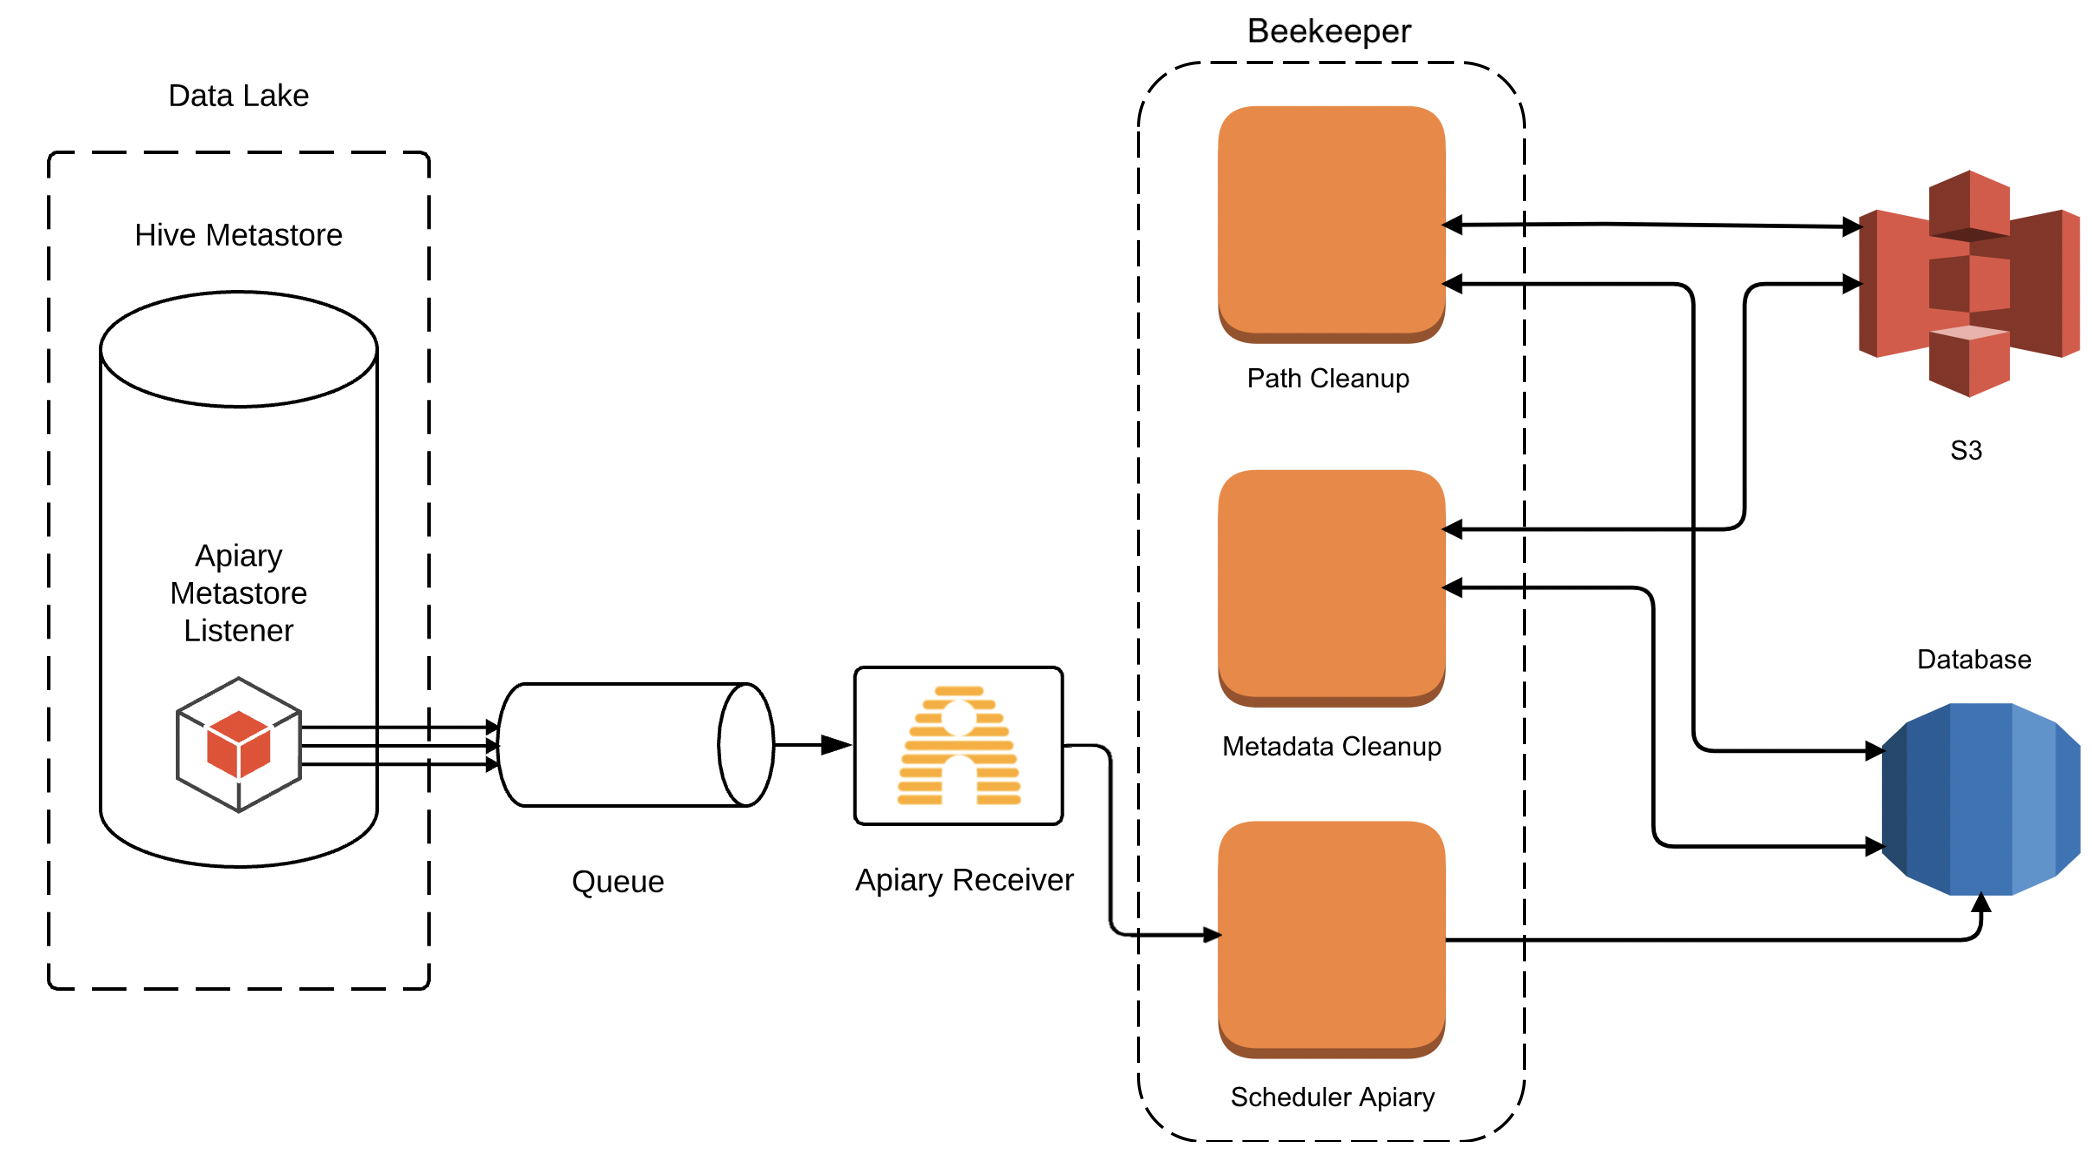
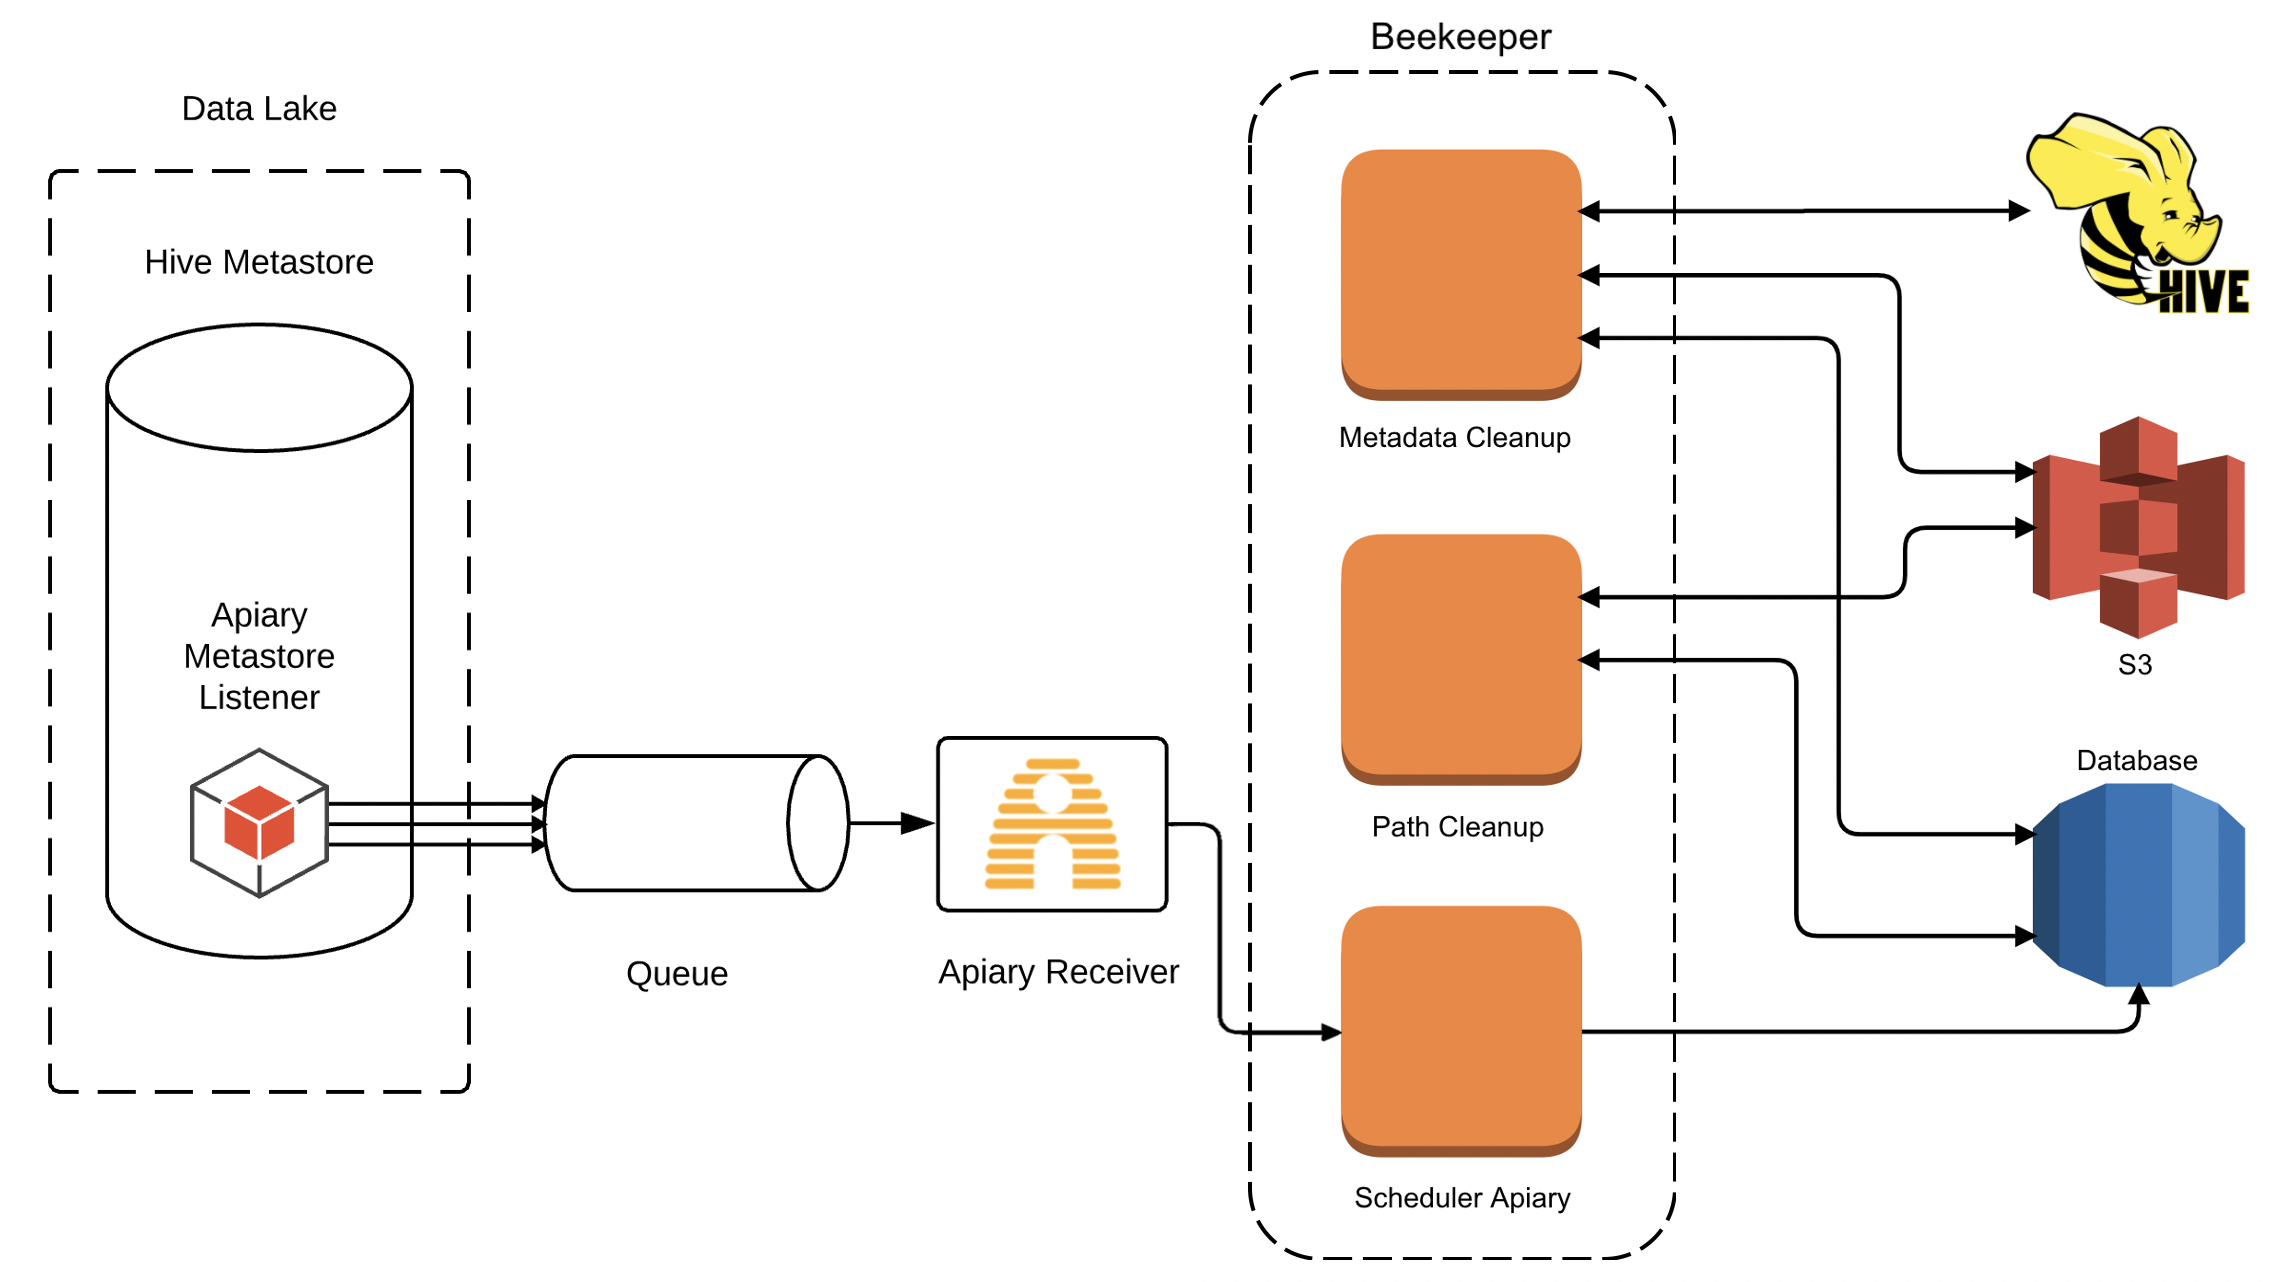
Addressing PR comments

diff --git a/README.md b/README.md
@@ -16,16 +16,25 @@ Docker images can be found in Expedia Group's [dockerhub](https://hub.docker.com
 
 # How does it work?
 
-Beekeeper makes use of [Apiary](https://github.com/ExpediaGroup/apiary) - an open source federated cloud data lake - to detect changes in the Hive MetaStore. One of Apiary’s components, the [Apiary MetaStore Listener](https://github.com/ExpediaGroup/apiary-extensions/tree/master/apiary-metastore-events/apiary-metastore-listener), captures Hive events and publishes these as messages to an SNS topic. Beekeeper uses these messages to detect changes to the Hive MetaStore, and perform appropriate deletions.
+Beekeeper makes use of [Apiary](https://github.com/ExpediaGroup/apiary) - an open source federated cloud data lake - to detect changes in the Hive MetaStore. One of Apiary’s components, the [Apiary MetaStore Listener](https://github.com/ExpediaGroup/apiary-extensions/tree/master/apiary-metastore-events/sns-metastore-events/apiary-metastore-listener), captures Hive events and publishes these as messages to an SNS topic. Beekeeper uses these messages to detect changes to the Hive MetaStore, and perform appropriate deletions.
 
-Beekeeper comprises three separate Spring-based Java applications. One application schedules paths and metadata for deletion in a shared database, with one table for unreferenced paths and another for expired metadata. The other two applications perform deletions for the paths and metadata, respectively.
+Beekeeper is comprised of three separate Spring-based Java applications:
+1. Scheduler Apiary - An application that schedules paths and metadata for deletion in a shared database, with one table for unreferenced paths and another for expired metadata. 
+2. Path Cleanup - An application that perform deletions of unreferenced paths.
+3. Metadata Cleanup - An application that perform deletions of expired metadata.
 
 ## Beekeeper Architecture
 
 ![Beekeeper architecture](.README_images/updated_architecture_diagram.png)
 
 ## Unreferenced paths
-The unreferenced property can be added to tables to monitor when paths become unreferenced, e.g. when a table or partition is dropped. 
+The "unreferenced" property can be added to tables to detect when paths become unreferenced. It will currently only be triggered by these events:
+- `alter_partition`
+- `alter_table`
+- `drop_partition`
+- `drop_table`
+
+By default, `alter_partition` and `alter_table` events require no further configuration. However, in order to avoid unexpected data loss, other event types require whitelisting on a per table basis. See [Hive table configuration](#hive-table-configuration) for more details.
 
 End-to-end lifecycle example
 1. A Hive table is configured with the parameter `beekeeper.remove.unreferenced.data=true` (see [Hive table configuration](#hive-table-configuration) for more details.)
@@ -36,9 +45,9 @@ End-to-end lifecycle example
 6. The scheduled paths are deleted by Beekeeper after a configurable delay, the default is 3 days (see [Hive table configuration](#hive-table-configuration) for more details.)
 
 ## Time To Live, TTL 
-There is also a TTL property which, when added, will delete tables and their locations after a configurable delay. If no delay is specified the default is 30 days. 
+The "expired" TTL property will delete tables, partitions, and their locations after a configurable delay. If no delay is specified the default is 30 days. 
 
-If the table is partitioned the cleanup delay will also apply to each partition that is added to the table. The table will only be dropped when there are no existing partitions. 
+If the table is partitioned the cleanup delay will also apply to each partition that is added to the table. The table will only be dropped when there are no remaining partitions. 
 
 End-to-end lifecycle example
 1. A Hive table is configured with the TTL parameter `beekeeper.remove.expired.data=true` (see [Hive table configuration](#hive-table-configuration) for more details).
@@ -52,30 +61,11 @@ End-to-end lifecycle example
 
 **TTL Caveats**
 
-Currently with the first release of the TTL there are the following issues:
-- If a table or partition is dropped by a user the related paths will become unreferenced and won’t be cleaned up. 
-    - This can be avoided by also adding the unreferenced property to the table, see the [unreferenced paths](#unreferenced-paths) section. However, this property listens to any drop event on that table and we haven’t yet configured Beekeeper to ignore drop events made by itself. So this will mean that any path for a table/partition dropped by Beekeeper during the TTL cleanup will be scheduled for deletion again in the unreferenced cleanup table.
+Currently with the first release of Beekeeper TTL there are the following issues:
+- If a table or partition is dropped by a user before the expiration time the related paths will become unreferenced and won’t be cleaned up. 
+    - This can be avoided by also adding the "unreferenced" property to the table, see the [unreferenced paths](#unreferenced-paths) section. However, this property listens to any drop event on that table and we haven’t yet configured Beekeeper to ignore drop events made by itself. So this will mean that any path for a table/partition dropped by Beekeeper during the TTL cleanup will be scheduled for deletion again in the unreferenced cleanup table.
 - If a partitioned table with existing partitions is renamed, these partitions will not be dropped until the table has expired. 
-    - E.g. A table is created with a cleanup delay of 2 days and a partition is added. The delay is changed to 10 days and the table is then renamed. With the current release the existing partition won’t be rescheduled to be deleted under the new table. So it will be deleted along with the table in 10 days instead of 2.  
-
-## Supported events
-
-**Unreferenced paths**
-
-For the unreferenced property Beekeeper will currently only be triggered by these events:
-- `alter_partition`
-- `alter_table`
-- `drop_partition`
-- `drop_table`
-
-By default, `alter_partition` and `alter_table` events require no further configuration. However, in order to avoid unexpected data loss, other event types require whitelisting on a per table basis. See [Hive table configuration](#hive-table-configuration) for more details.
-
-**TTL**
-
-For the TTL property Beekeeper will be triggered by these events:
-- `alter_table`
-- `add_partition`
-- `alter_partition`
+    - For example: A table is created with a cleanup delay of 2 days and a partition is added. The delay is changed to 10 days and the table is then renamed. With the current release the existing partition won’t be rescheduled to be deleted under the new table. So it will be deleted along with the table in 10 days instead of 2.  
 
 ## Hive table configuration
 
@@ -91,7 +81,7 @@ Beekeeper only actions on events which are marked with specific parameters. Thes
 
 **Usage**
 
-*Unreferenced*
+*Unreferenced Paths*
 
 This command can be used to add the parameter to a Hive Table:
 
@@ -115,11 +105,11 @@ ALTER TABLE <table> SET TBLPROPERTIES("beekeeper.remove.expired.data"="true", "b
 
 # Running Beekeeper
 
-Beekeeper comprises three Spring Boot applications, `beekeeper-path-cleanup`, `beekeeper-metadata-cleanup`, and `beekeeper-scheduler-apiary`, which run independently of each other:
+Beekeeper consists of three Spring Boot applications which run independently of each other:
 
 - `beekeeper-path-cleanup` periodically queries a database for paths to delete and performs deletions. 
 - `beekeeper-metadata-cleanup` periodically queries a database for metadata to delete and performs deletions on hive tables, partitions, and s3 paths. 
-- `beekeeper-scheduler-apiary` periodically polls an Apiary SQS queue for Hive MetaStore events and inserts S3 paths and Hive tables to be deleted into a database, scheduling them for deletion.
+- `beekeeper-scheduler-apiary` periodically polls an Apiary SQS queue for Hive Metastore events and inserts S3 paths and Hive tables to be deleted into a database, scheduling them for deletion.
 
 All applications require configuration to be provided, see [Application configuration](#application-configuration) for details.
 
@@ -140,7 +130,7 @@ This can be provided via a file or Spring can load properties from the environme
 
 ## Using Docker
 
-Three Docker images are created during `mvn install` two for cleanup of paths and metadata, and one for scheduling. 
+Three Docker images are created during `mvn install` - two for cleanup of paths and metadata, and one for scheduling. 
 
 Configuration can be provided in one of two ways:
 
@@ -239,7 +229,7 @@ By default, `beekeeper-scheduler-apiary` listens on port 8080, `beekeeper-path-c
 | `cleanup-page-size`                 | No       | Number of rows that should be processed in one page. Default value is `500`. |
 | `dry-run-enabled`                   | No       | Enable to simply display the deletions that would be performed, without actually doing so. Default value is `false`. |
 | `scheduler-delay-ms`                | No       | Amount of time (in milliseconds) between consecutive cleanups. Default value is `300000` (5 minutes after the previous cleanup completes). |
-| `metastore-uri`                     | Yes      | URI of the Hive MetaStore where tables to be cleaned-up are located. |
+| `Metastore-uri`                     | Yes      | URI of the Hive Metastore where tables to be cleaned-up are located. |
 
 ### Metrics
 
